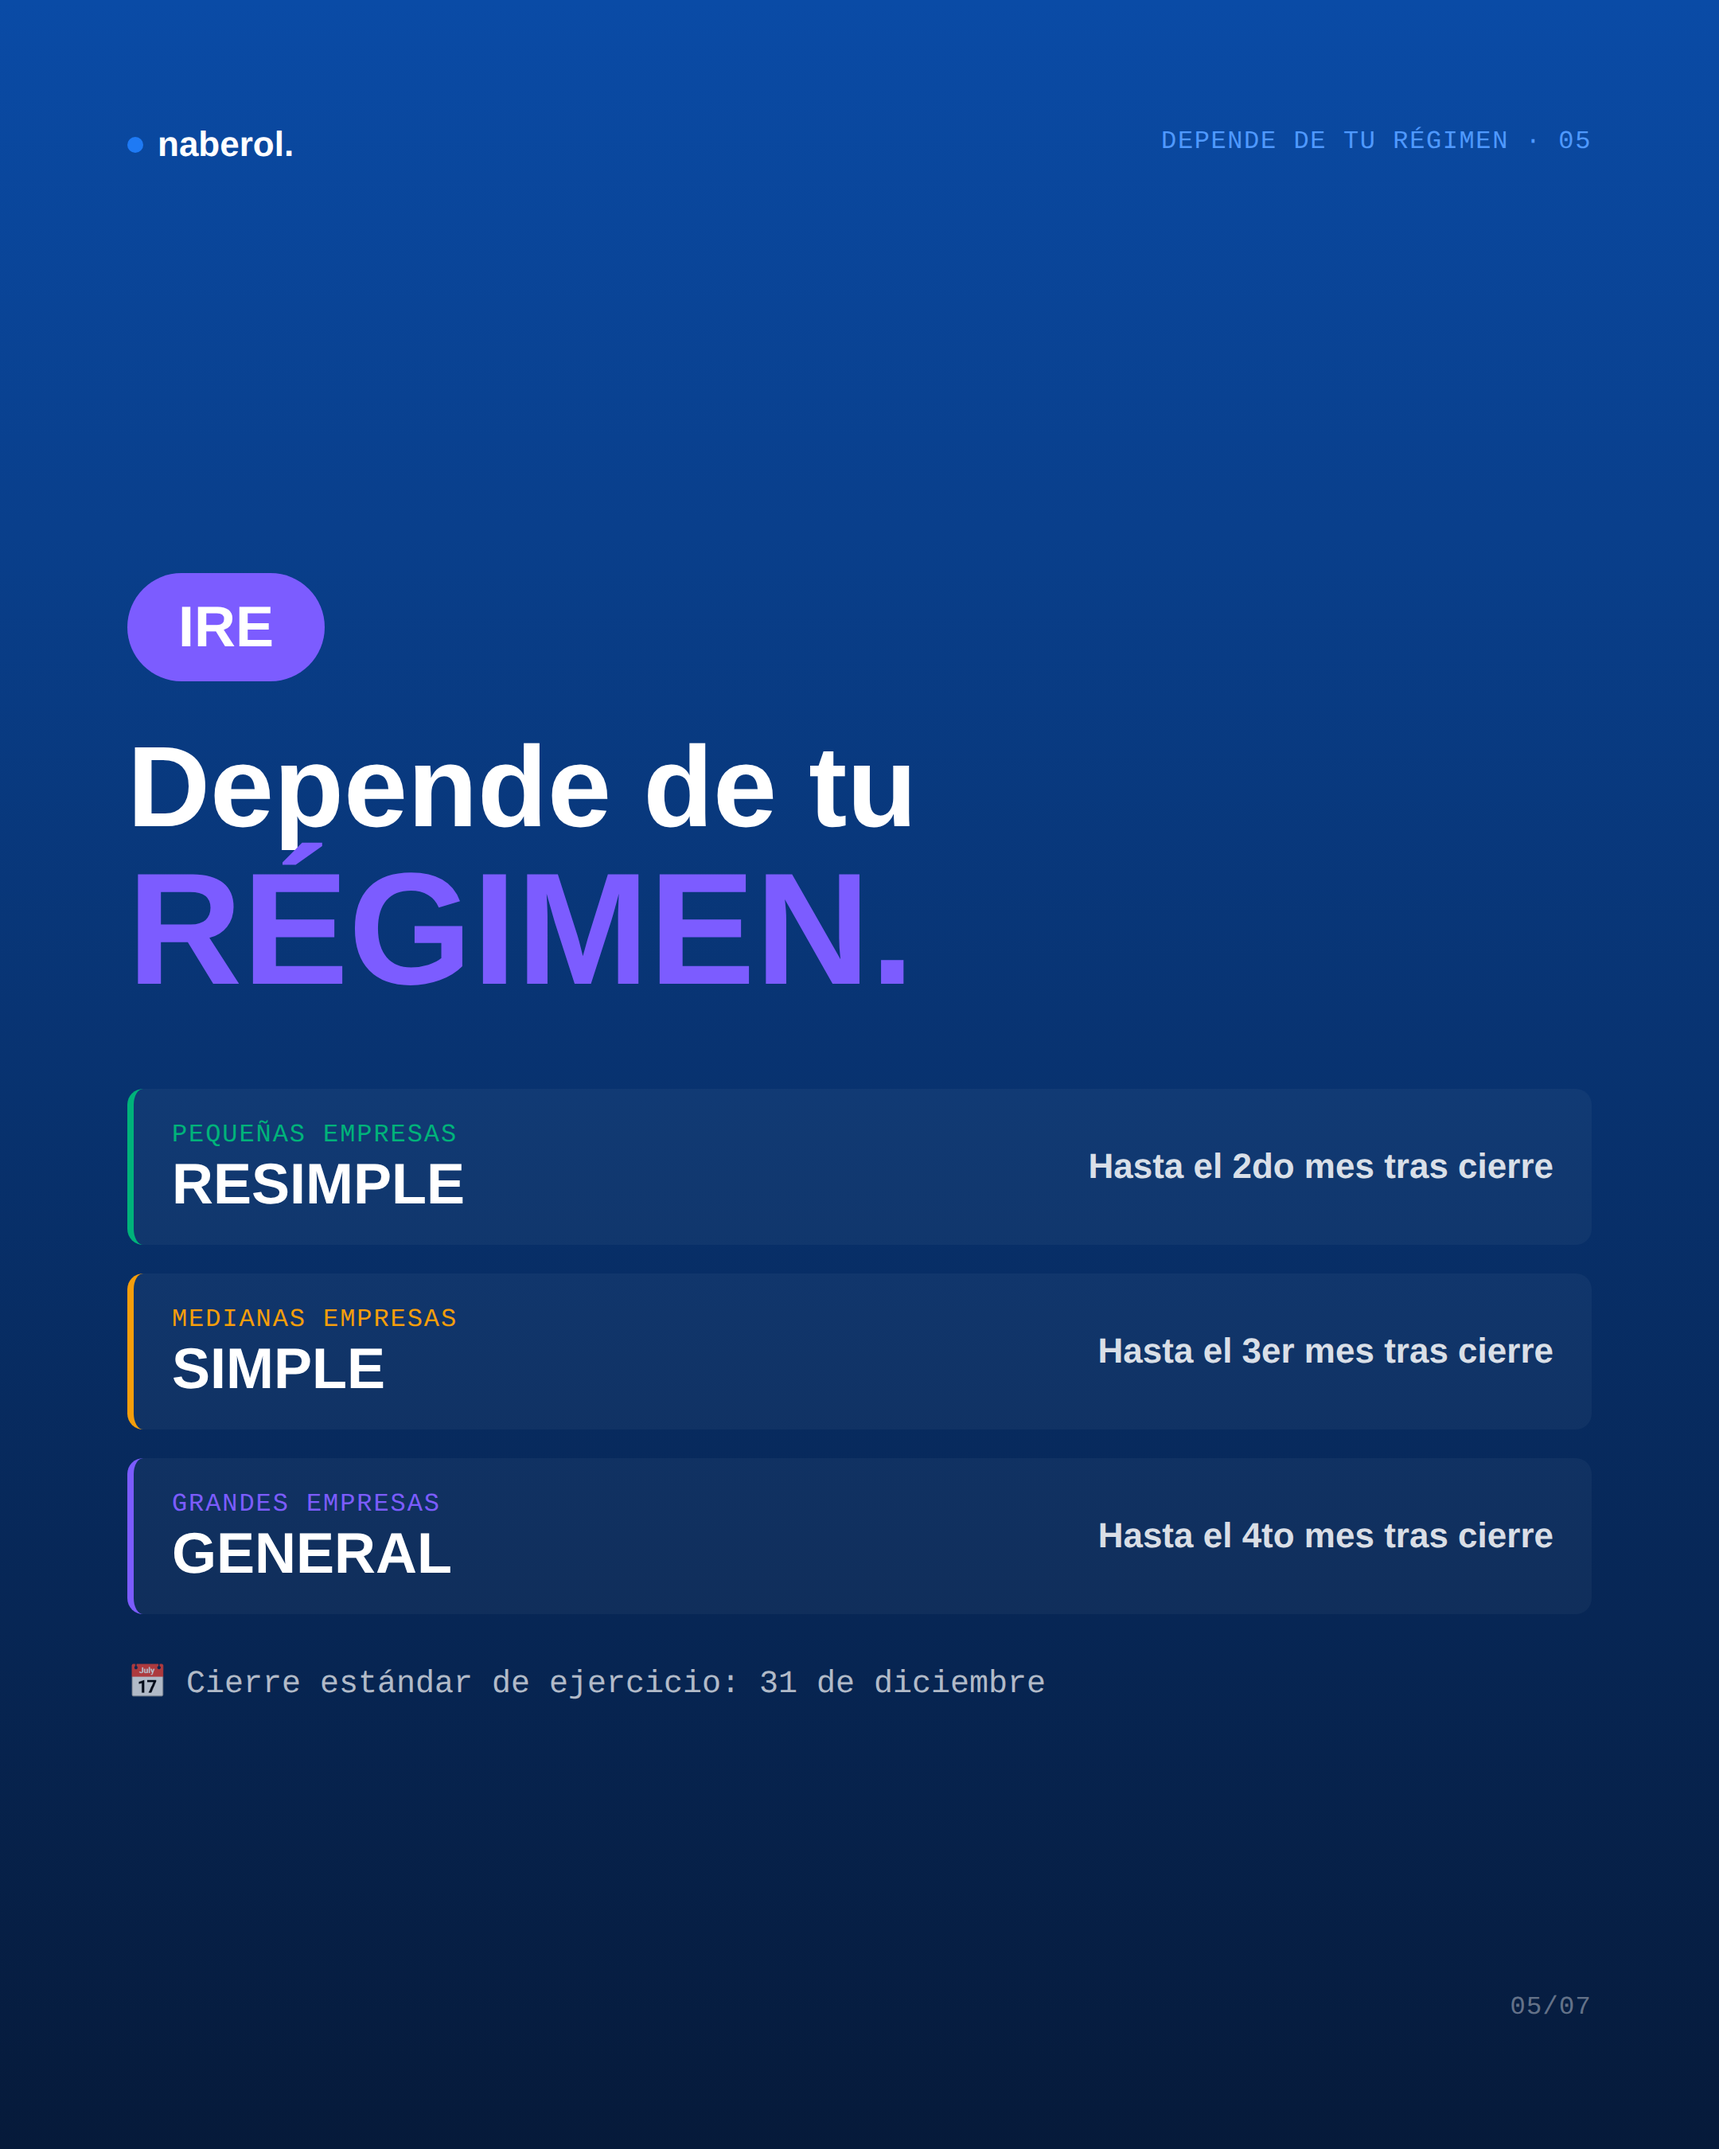
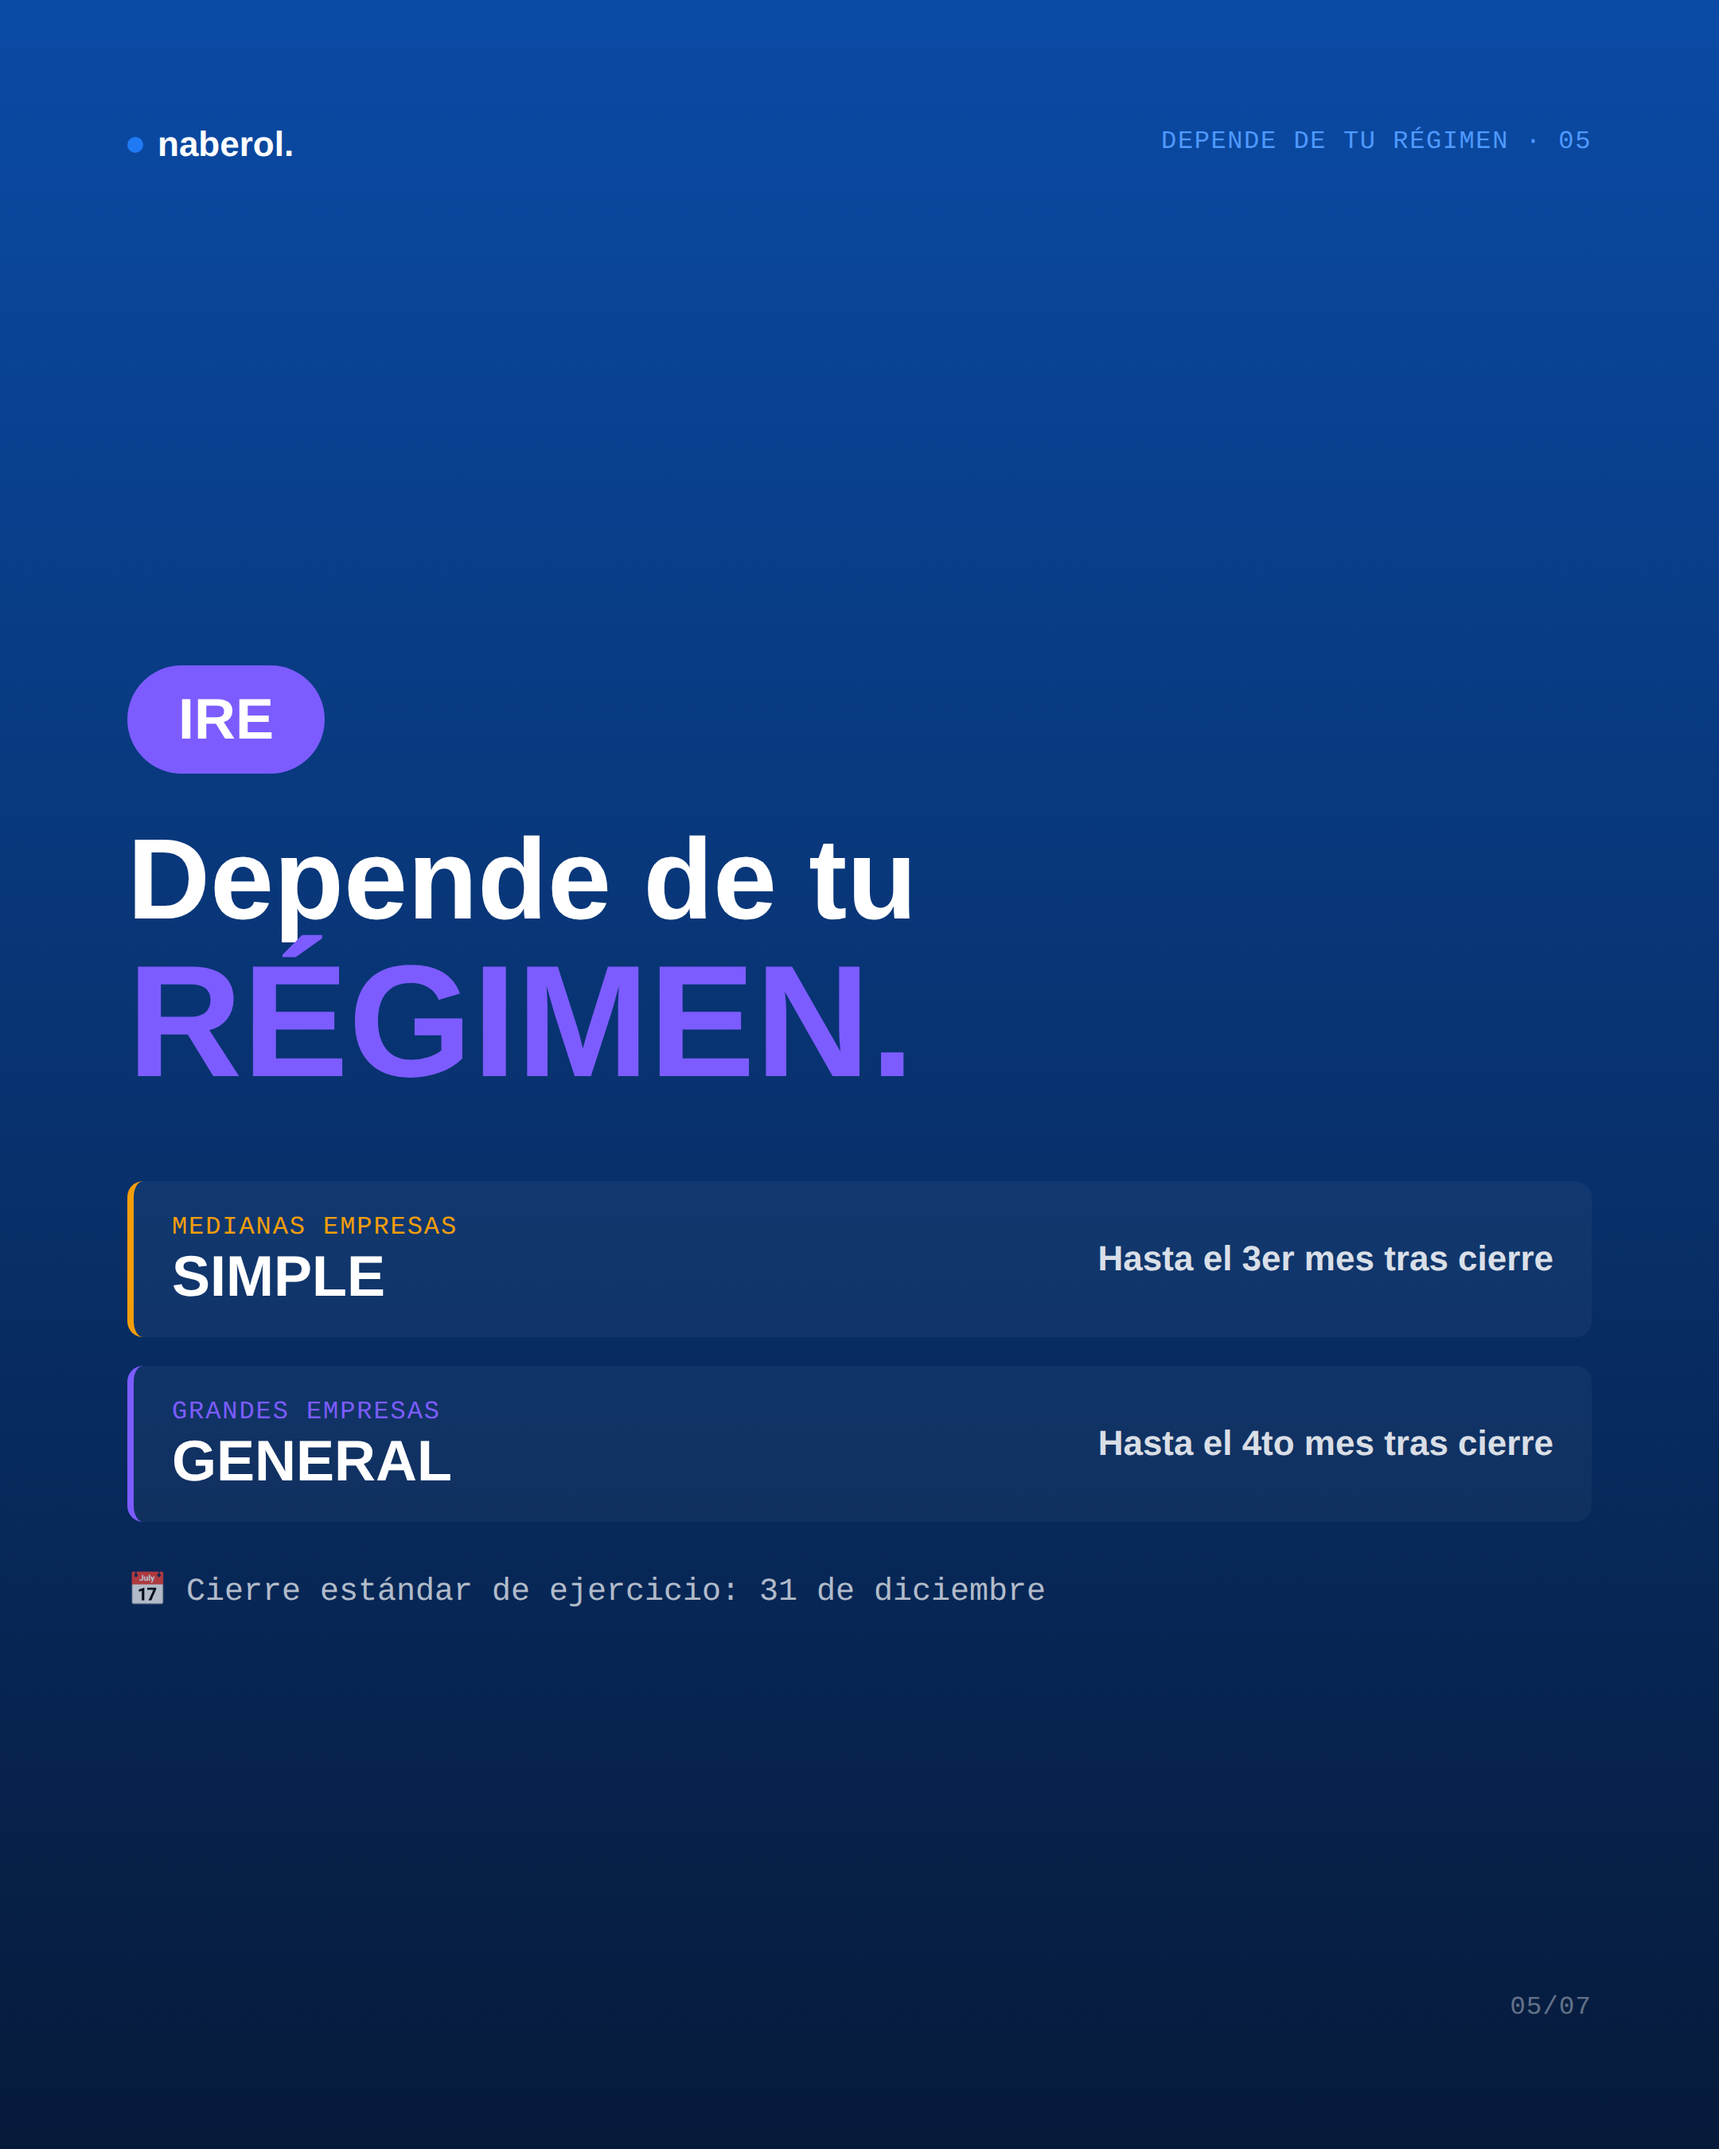
Remove RESIMPLE régimen from slide 5 (no longer valid in Paraguay)
https://claude.ai/code/session_01WPWfe4EZELcFe8TNQ5FzCm

diff --git a/carrusel_calendario_fiscal.html b/carrusel_calendario_fiscal.html
@@ -669,13 +669,6 @@
       <div class="sp-50"></div>
 
       <div class="reg-list">
-        <div class="reg-card green">
-          <div class="reg-left">
-            <span class="reg-lbl green">PEQUEÑAS EMPRESAS</span>
-            <span class="reg-title">RESIMPLE</span>
-          </div>
-          <span class="reg-vence">Hasta el 2do mes tras cierre</span>
-        </div>
         <div class="reg-card amber">
           <div class="reg-left">
             <span class="reg-lbl amber">MEDIANAS EMPRESAS</span>
